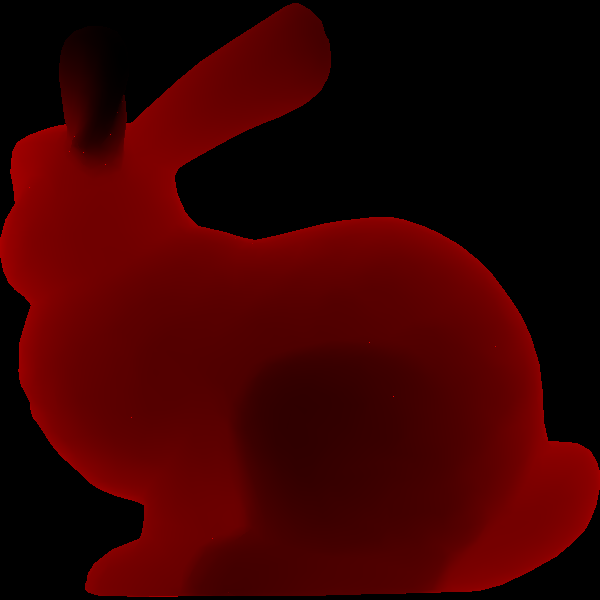
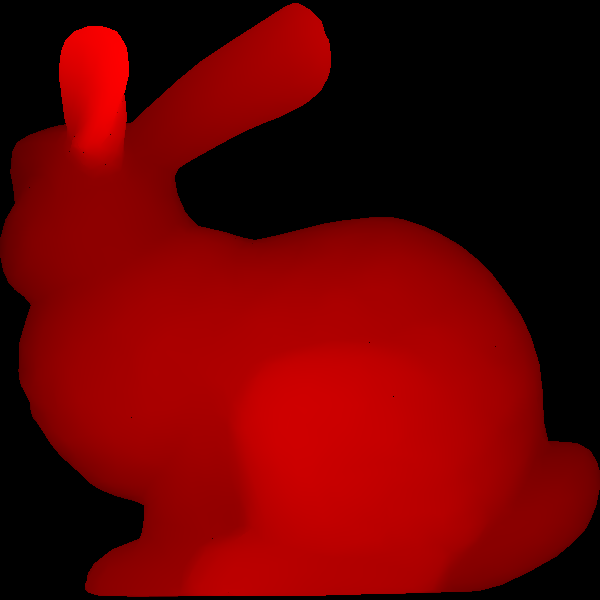
Fix shading

diff --git a/examples/demo/src/main.cpp b/examples/demo/src/main.cpp
@@ -76,7 +76,7 @@ void resize_obj(std::vector<tinyobj::shape_t>& shapes) {
 
 // Rasterize a single triangle
 void rasterizeTriangle(kiwitracer::Triangle& triangle, std::shared_ptr<kiwitracer::Image> image,
-                       std::vector<std::vector<float>>& zBuffer) {
+                       std::vector<std::vector<float>>& zBuffer, int colorMode) {
   // Calculate bounding box for this triangle
   triangle.computeBoundingBox(image->getWidth(), image->getHeight());
 
@@ -105,13 +105,30 @@ void rasterizeTriangle(kiwitracer::Triangle& triangle, std::shared_ptr<kiwitrace
           // Update the z-buffer
           zBuffer[y][x] = interpolated.depth;
 
-          // Clamp colors to [0, 1] and convert to [0, 255]
-          unsigned char r = (unsigned char)(std::max(0.0f, std::min(1.0f, interpolated.r)) * 255);
-          unsigned char g = (unsigned char)(std::max(0.0f, std::min(1.0f, interpolated.g)) * 255);
-          unsigned char b = (unsigned char)(std::max(0.0f, std::min(1.0f, interpolated.b)) * 255);
+          unsigned char r, g, b;
+          if (colorMode == 2) {
+            float minw = std::min(u, std::min(v, w));
+            if (u >= 0.2f && v >= 0.2f && w >= 0.2f) {
+              r = 255;
+              g = 0;
+              b = 0; // red core
+            } else if (minw >= 0.05f && minw <= 0.2f) {
+              r = 0;
+              g = 0;
+              b = 255; // blue soft border
+            } else {
+              r = 0;
+              g = 255;
+              b = 0; // green elsewhere
+            }
+          } else {
+            // Clamp colors to [0, 1] and convert to [0, 255]
+            r = (unsigned char)(std::max(0.0f, std::min(1.0f, interpolated.r)) * 255);
+            g = (unsigned char)(std::max(0.0f, std::min(1.0f, interpolated.g)) * 255);
+            b = (unsigned char)(std::max(0.0f, std::min(1.0f, interpolated.b)) * 255);
+          }
 
           printf("Pixel: (%d, %d, %d)\n", r, g, b);
-
           image->setPixel(x, y, r, g, b);
         }
       }
@@ -130,43 +147,15 @@ void setDepthColors(std::vector<kiwitracer::Vertex>& vertices) {
     maxZ = std::max(maxZ, v.z);
   }
 
-  // Normalize z values and set colors
+  float denom = (maxZ - minZ <= 0.0f) ? 1.0f : (maxZ - minZ);
+
+  // Normalize z values and set colors (closer = brighter red)
   for (auto& v : vertices) {
-    float normalizedZ = (v.z - minZ) / (maxZ - minZ);
-    v.r = normalizedZ; // Red component based on depth
+    float zNormalized = (v.z - minZ) / denom;
+    float brightness = 1.0f - zNormalized; // invert so closer (smaller z) is brighter
+    v.r = brightness;
     v.g = 0.0f;
     v.b = 0.0f;
-  }
-}
-
-// Color mode 2: Distance-based banded coloring
-void setDistanceColors(std::vector<kiwitracer::Vertex>& vertices, int width, int height) {
-  // Reference point in window space (center of image)
-  float refX = width / 2.0f;
-  float refY = height / 2.0f;
-
-  float minDist = 1e10f;
-  float maxDist = 0.0f;
-
-  // Find min and max distances
-  for (const auto& v : vertices) {
-    float dist = std::sqrt((v.x - refX) * (v.x - refX) + (v.y - refY) * (v.y - refY));
-    minDist = std::min(minDist, dist);
-    maxDist = std::max(maxDist, dist);
-  }
-
-  // Set banded colors based on distance
-  for (auto& v : vertices) {
-    float dist = std::sqrt((v.x - refX) * (v.x - refX) + (v.y - refY) * (v.y - refY));
-    float normalizedDist = (dist - minDist) / (maxDist - minDist);
-
-    // Create banded effect
-    float banded = std::floor(normalizedDist * 8.0f) / 8.0f;
-
-    // Blend between blue and yellow
-    v.r = static_cast<unsigned char>(banded);
-    v.g = static_cast<unsigned char>(banded);
-    v.b = static_cast<unsigned char>(1.0f - banded);
   }
 }
 
@@ -174,11 +163,12 @@ int main(int argc, char** argv) {
   fs::path meshfile, imagefile;
   int g_width = 100, g_height = 100, colorMode = 1;
 
-  auto cli = lyra::cli() | lyra::arg(meshfile, "meshfile").required().help("Mesh file (e.g., foo.obj)") |
-             lyra::arg(imagefile, "imagefile").required().help("Image file (e.g., foo.png)") |
-             lyra::arg(g_width, "width").help("Image width (e.g., 512)") |
-             lyra::arg(g_height, "height").help("Image height (e.g., 512)") |
-             lyra::arg(colorMode, "mode").help("Coloring mode: 1 (depth) or 2 (binned distance)");
+  auto cli =
+      lyra::cli() | lyra::arg(meshfile, "meshfile").required().help("Mesh file (e.g., foo.obj)") |
+      lyra::arg(imagefile, "imagefile").required().help("Image file (e.g., foo.png)") |
+      lyra::arg(g_width, "width").help("Image width (e.g., 512)") |
+      lyra::arg(g_height, "height").help("Image height (e.g., 512)") |
+      lyra::arg(colorMode, "mode").help("Coloring mode: 1 (depth) or 2 (binned distance) or 3 (barycentric regions)");
 
   auto result = cli.parse({argc, argv});
   if (!result) {
@@ -187,8 +177,8 @@ int main(int argc, char** argv) {
   }
 
   // Validate color mode
-  if (colorMode < 1 || colorMode > 2) {
-    std::cerr << "Color mode must be 1 or 2\n";
+  if (colorMode < 1 || colorMode > 3) {
+    std::cerr << "Color mode must be 1, 2 or 3\n";
     return 1;
   }
 
@@ -237,8 +227,8 @@ int main(int argc, char** argv) {
   // Apply color mode
   if (colorMode == 1) {
     setDepthColors(vertices);
-  } else if (colorMode == 2) {
-    setDistanceColors(vertices, g_width, g_height);
+  } else if (colorMode == 3) {
+    // Per-pixel barycentric region coloring; no per-vertex setup needed
   }
 
   // Rasterize each triangle
@@ -249,7 +239,7 @@ int main(int argc, char** argv) {
     unsigned int idx2 = triBuf[i + 2];
 
     kiwitracer::Triangle tri(vertices[idx0], vertices[idx1], vertices[idx2]);
-    rasterizeTriangle(tri, image, zbuffer);
+    rasterizeTriangle(tri, image, zbuffer, colorMode);
   }
 
   // write out the image
